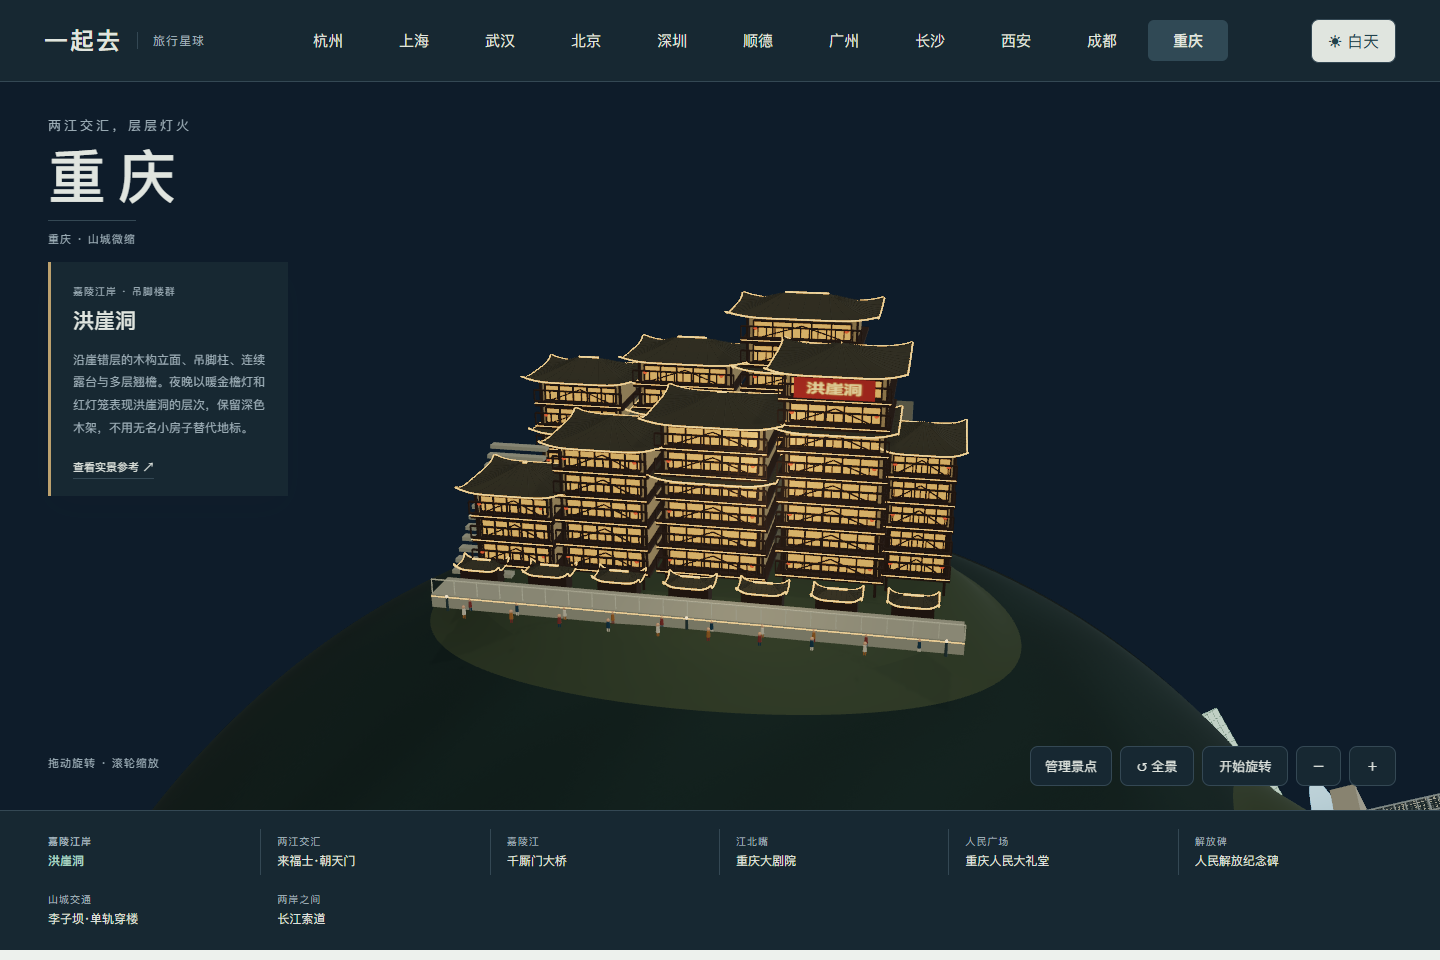
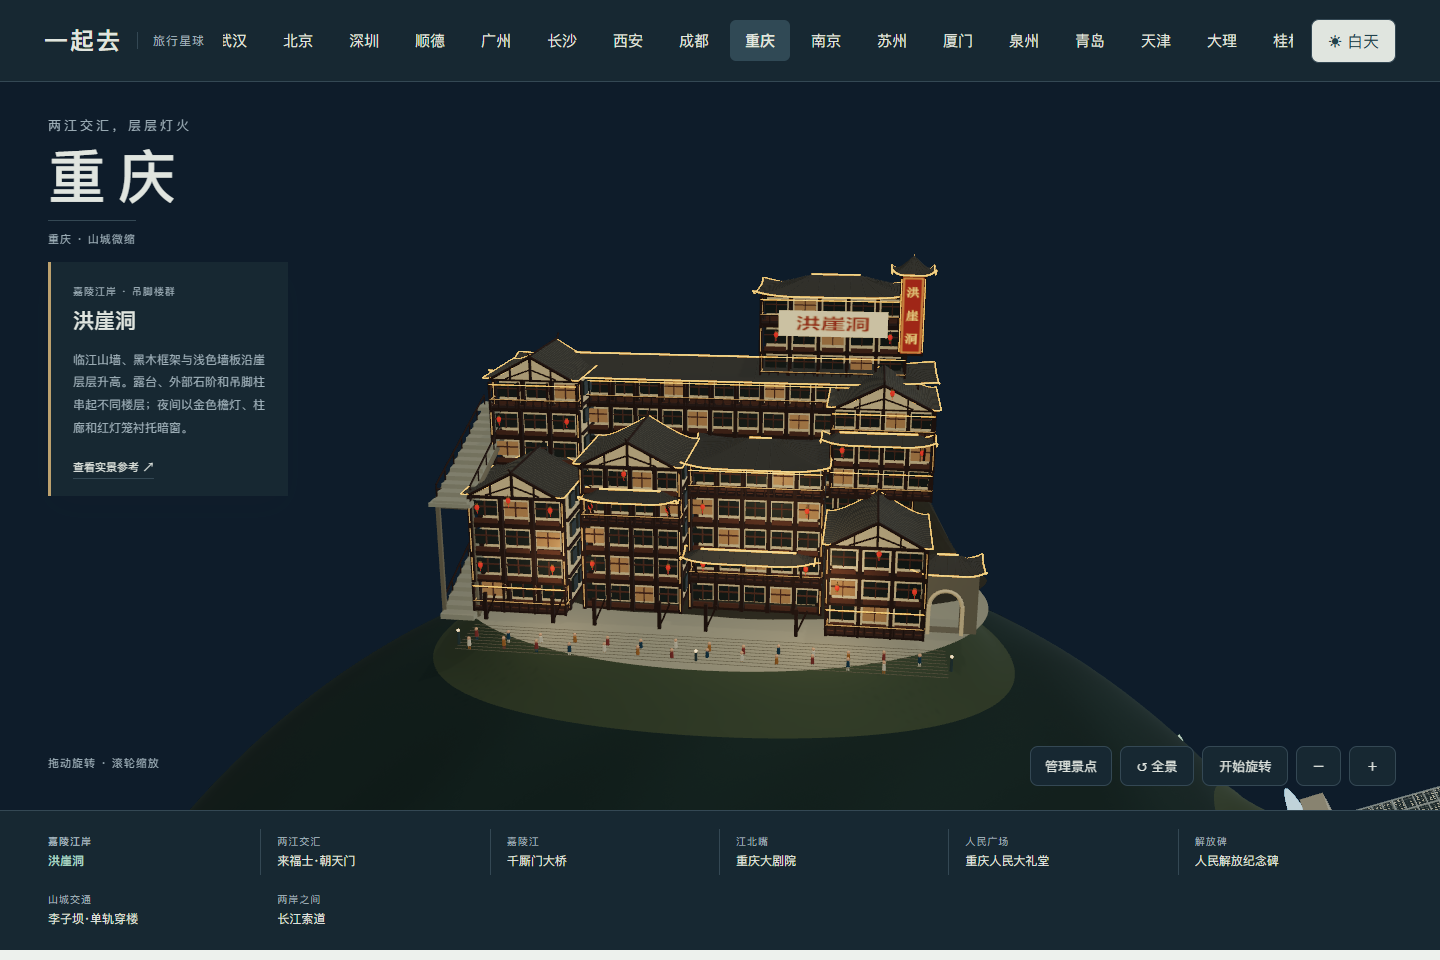
Refine Hongya riverfront architecture and layered night lighting

diff --git a/web/chongqing-hongya.js b/web/chongqing-hongya.js
@@ -1,0 +1,142 @@
+import * as THREE from 'three';
+import {site,disc,hip,glow,sign,finish,skin} from './chongqing-kit.js';
+import {archWall} from './shunde-kit.js';
+
+// A compressed riverfront elevation, based on front-day and street-night photographs.
+// Timber frames, recessed rooms and open galleries have independent geometry.
+export function hongya(k){
+ const g=new THREE.Group();site(k,g,.81,.61);
+ const wood=k.mat('#42302a',.91),frame=k.mat('#674536',.87),plaster=k.mat('#c8c1a4',.94),stone=k.mat('#817b69',.98),paving=k.mat('#a3a290',.95),tile=k.mat('#51504a',.92),tileRib=k.mat('#68665c',.92);
+ const gold=glow(k,'#e4a54d',1.25),soft=glow(k,'#d8aa68',.40),lantern=glow(k,'#b93420',.78,1,.37),dark=k.mat('#2d3735',.53,.12),lit=glow(k,'#97724a',.18),bronze=k.mat('#a87f3e',.65,.22);
+ plaster.userData.night={color:new THREE.Color('#c39a5e'),intensity:.19};lit.userData.night.intensity=.40;
+ plaster.userData.hongyaWall=true;stone.userData.hongyaStone=true;wood.userData.hongyaTimber=true;
+ disc(k,g,.73,.49,.019,paving);
+ // The rock wall climbs behind the buildings, leaving the river-facing galleries open.
+ const rock=k.mat('#8b8876',.98);rock.flatShading=true;rock.vertexColors=true;rock.userData.landscape=true;rock.userData.night={color:new THREE.Color('#534d3d'),intensity:.025};
+ const rockMesh=skin(k,g,(u,v)=>{
+  const a=u*Math.PI*2,edge=1+.022*Math.sin(a*7)+.013*Math.cos(a*13),x=Math.cos(a)*.73*v*edge,z=-.19+Math.sin(a)*.38*v*edge;
+  const rear=THREE.MathUtils.smoothstep(-z,.065,.24),fall=1-THREE.MathUtils.smoothstep(v,.61,1),strata=.018*Math.sin(a*9+v*7)*Math.sin(v*Math.PI);
+  return [x,.022+Math.max(0,(.44*fall+strata)*rear),z];
+ },36,112,rock);
+ const rp=rockMesh.geometry.attributes.position,colors=[];for(let i=0;i<rp.count;i++){const x=rp.getX(i),y=rp.getY(i),z=rp.getZ(i),shade=.91+.07*Math.sin(x*19+z*17)*Math.sin(y*23-z*7);colors.push(shade,shade,shade*.97);}
+ rockMesh.geometry.setAttribute('color',new THREE.Float32BufferAttribute(colors,3));
+ for(let j=0;j<9;j++)k.box(g,1.20,.001,.001,stone,0,.020,.31+j*.018);
+
+ function rail(x,z,w,y,side=false){
+  const parts=new THREE.Group();
+  k.box(parts,w,.004,.005,wood,0,y+.029,0);k.box(parts,w,.003,.005,wood,0,y+.006,0);
+  const n=Math.ceil(w/.025);for(let i=0;i<=n;i++)k.box(parts,.003,.023,.004,wood,(i/n-.5)*w,y+.017,0);
+  for(let i=0;i<n;i++){const xx=((i+.5)/n-.5)*w;k.box(parts,w/n*.63,.0018,.004,frame,xx,y+.015,0);}
+  k.box(parts,w,.0013,.0018,soft,0,y+.031,.003);
+  if(side)parts.rotation.y=Math.PI/2;parts.position.set(x,0,z);g.add(parts);
+ }
+ function lanternAt(x,y,z){
+  k.beam(g,[x,y+.017,z],[x,y+.008,z],.0008,wood,4);
+  const globe=k.mesh(g,new THREE.SphereGeometry(.006,10,8),lantern,x,y,z);globe.scale.y=1.27;
+  for(const s of [-1,1])k.cyl(g,.0035,.0035,.0025,bronze,x,y+s*.008,z,8);
+  k.beam(g,[x,y-.009,z],[x,y-.017,z],.0008,lantern,4);
+ }
+ function gable(x,z,w,d,h,y){
+  // Ridge runs back-to-front so the triangular timber gable faces the river.
+  const side=(s,u,v)=>[x+s*w/2*u,y+h*(1-u)**1.25+.010*u**7,z+(v-.5)*d];
+  for(const s of [-1,1]){
+   skin(k,g,(u,v)=>side(s,u,v),14,20,tile);
+   for(let j=0;j<=Math.ceil(d/.014);j++){const zz=j/Math.ceil(d/.014);k.line(g,Array.from({length:9},(_,i)=>side(s,i/8,zz)),.0007,tileRib);}
+   for(const end of [0,1])k.line(g,Array.from({length:14},(_,i)=>side(s,i/13,end)),.0016,gold);
+   k.beam(g,[x+s*w/2,y+.010,z-d/2],[x+s*w/2,y+.010,z+d/2],.0016,gold);
+  }
+  k.beam(g,[x,y+h+.002,z-d/2-.006],[x,y+h+.002,z+d/2+.007],.003,wood);
+  for(const s of [-1,1])k.beam(g,[x,y+h,z+s*d/2],[x,y+h+.014,z+s*(d/2+.019)],.0025,wood);
+  const triangle=new THREE.Shape();triangle.moveTo(-w*.43,0);triangle.lineTo(w*.43,0);triangle.lineTo(0,h*.88);triangle.closePath();
+  const wall=k.mesh(g,new THREE.ShapeGeometry(triangle),plaster,x,y+.007,z+d/2-.005);wall.material.side=THREE.DoubleSide;
+  k.beam(g,[x-w*.43,y+.006,z+d/2-.001],[x,y+h*.88+.007,z+d/2-.001],.004,wood);k.beam(g,[x,y+h*.88+.007,z+d/2-.001],[x+w*.43,y+.006,z+d/2-.001],.004,wood);
+  k.box(g,.006,h*.88,.008,wood,x,y+.007+h*.44,z+d/2);
+  for(const s of [-1,1]){k.box(g,.004,h*.40,.006,wood,x+s*w*.21,y+.008+h*.20,z+d/2);k.beam(g,[x,y+h*.50,z+d/2],[x+s*w*.26,y+.009,z+d/2],.0024,wood);}
+ }
+ function wing({x,z,w,d,floors,bottom=.041,fh=.078,roof='gable',balconies=[],pattern=0}){
+  const h=floors*fh,front=z+d/2,bays=Math.max(3,Math.round(w/.072));
+  // The body is recessed behind the balcony, not a fully illuminated box.
+  k.box(g,w*.95,h,d*.70,plaster,x,bottom+h/2,z-d*.12);
+  for(let floor=0;floor<floors;floor++){
+   const y=bottom+floor*fh,open=balconies.includes(floor),windowZ=front-(open?.052:.022);
+   if(open){k.box(g,w,.007,d,wood,x,y+.004,z);rail(x,front,w,y);for(const s of [-1,1])rail(x+s*w/2,front-.025,.050,y,true);}
+   k.box(g,w,.009,.016,wood,x,y+.004,windowZ+.002);k.box(g,w,.007,.016,wood,x,y+fh-.003,windowZ+.002);
+   for(let j=0;j<bays;j++){
+    const xx=x-w/2+(j+.5)*w/bays,bw=w/bays*.75;
+    // Broad dark upper panes and pale lower panels, with a few subdued lit rooms.
+    const wm=(j+floor+pattern)%4===0?lit:dark;
+    const rear=z-d*.474;
+    k.box(g,bw,fh*.49,.006,dark,xx,y+fh*.61,rear-.002);
+    k.box(g,.003,fh*.50,.008,frame,xx,y+fh*.61,rear-.005);
+    k.box(g,.010,fh,.012,wood,xx-w/bays*.5,y+fh/2,rear);
+    k.box(g,w/bays,.007,.013,wood,xx,y+.004,rear-.003);
+    k.box(g,bw,fh*.49,.004,wm,xx,y+fh*.61,windowZ+.011);
+    k.box(g,bw,fh*.15,.006,frame,xx,y+fh*.18,windowZ+.012);
+    k.box(g,.0025,fh*.50,.008,frame,xx,y+fh*.61,windowZ+.015);
+    k.box(g,bw,.0025,.008,frame,xx,y+fh*.68,windowZ+.015);
+   }
+   for(let j=0;j<=bays;j++){
+    const xx=x-w/2+j*w/bays;k.box(g,.010,fh,.016,wood,xx,y+fh/2,windowZ+.010);
+    if(j===0||j===bays)k.box(g,.0018,fh*.80,.002,soft,xx,y+fh/2,windowZ+.019);
+    if(open){k.box(g,.006,fh,.006,wood,xx,y+fh/2,front);k.beam(g,[xx,y+fh*.60,front],[xx,y+fh*.87,front-.020],.0028,frame);}
+   }
+   if(open)k.box(g,w,.002,.002,gold,x,y+fh-.007,front+.003);
+   if(floor%2===1)for(const s of [-1,1])lanternAt(x+s*w*.39,y+fh*.72,front+.012);
+   // Side walls stay legible when the planet turns.
+   for(const s of [-1,1]){k.box(g,.012,.007,d*.76,wood,x+s*w*.476,y+.004,z-d*.12);for(let j=0;j<3;j++){const zz=z-d*.42+j*d*.25;k.box(g,.013,fh*.49,d*.16,dark,x+s*w*.478,y+fh*.61,zz);}}
+  }
+  for(const s of [-1,1])k.box(g,.011,h,.012,wood,x+s*w*.476,bottom+h/2,z-d*.46);
+  if(roof==='gable')gable(x,z,w*1.10,d*1.13,.070,bottom+h+.004);
+  if(roof==='hip')hip(k,g,w*1.10,d*1.16,.043,bottom+h+.004,tile,gold,x,z);
+  return bottom+h;
+ }
+
+ // A broad rear gallery links the lower wings to the taller right-hand sign pavilion.
+ wing({x:-.04,z:-.205,w:1.12,d:.24,floors:5,bottom:.205,roof:'hip',balconies:[1,4],pattern:2});
+ wing({x:.29,z:-.245,w:.39,d:.25,floors:3,bottom:.589,roof:'hip',balconies:[0,2],pattern:1});
+ wing({x:-.50,z:-.08,w:.24,d:.24,floors:3,bottom:.37,balconies:[2]});
+ // Unequal riverfront gables and setbacks replace the old repeated tower/stall row.
+ wing({x:-.49,z:.14,w:.245,d:.26,floors:4,balconies:[0],pattern:0});
+ wing({x:-.202,z:.10,w:.255,d:.25,floors:5,balconies:[3],pattern:2});
+ wing({x:.115,z:.055,w:.34,d:.27,floors:5,roof:'hip',balconies:[1,4],pattern:1});
+ wing({x:.425,z:.19,w:.24,d:.23,floors:3,balconies:[0],pattern:3});
+ wing({x:.43,z:-.035,w:.26,d:.24,floors:3,bottom:.33,balconies:[0,2],pattern:0});
+
+ // Short upper terrace roofs and exposed knee braces make the change of levels visible.
+ for(const [x,z,w,y]of [[-.20,.228,.25,.353],[.10,.205,.34,.195],[.42,.104,.29,.49]]){
+  hip(k,g,w,.085,.023,y,tile,gold,x,z);for(const s of [-1,1])k.beam(g,[x+s*w*.40,y-.045,z-.010],[x+s*w*.40,y-.005,z+.030],.0035,wood);
+ }
+ // Street entrance has a real arch opening and a recessed dark interior.
+ archWall(k,g,{w:.16,h:.162,d:.035,x:.602,y:.023,z:.19,openings:[{x:0,r:.038,spring:.075}],mat:stone});
+ const archPts=Array.from({length:25},(_,i)=>[.602+Math.cos(Math.PI*i/24)*.040,.098+Math.sin(Math.PI*i/24)*.040,.212]);k.line(g,archPts,.005,plaster);
+ for(const s of [-1,1])k.box(g,.009,.077,.014,plaster,.602+s*.042,.061,.214);
+ hip(k,g,.185,.13,.032,.194,tile,gold,.602,.185);
+ // The elevated timber portico remains visibly open beneath its floor.
+ for(const x of [-.58,-.40,-.29,-.12,.0,.23]){
+  k.box(g,.009,.074,.010,wood,x,.059,.275);k.beam(g,[x,.027,.275],[x+.028,.093,.275],.0027,wood);
+ }
+ // An external switchback stair links the low street to the high galleries.
+ for(let run=0;run<3;run++){
+  const back=run%2===0,base=.022+run*.156,z0=back?.27:-.16;
+  for(let i=0;i<13;i++){const z=z0+(back?-1:1)*i*.033,top=base+(i+1)*.012;k.box(g,.090,.014,.034,paving,-.655,top-.007,z);}
+  const za=z0+(back?-1:1)*.013,zb=z0+(back?-1:1)*.414;
+  for(const side of [-1,1]){const x=-.655+side*.045;k.beam(g,[x,base+.002,za],[x,base+.145,zb],.008,stone);k.box(g,.010,base+.145,.010,stone,x,(base+.145)/2+.012,zb);k.beam(g,[x,base+.045,za],[x,base+.189,zb],.0024,wood);for(let j=0;j<=6;j++)k.box(g,.003,.029,.003,wood,x,base+.028+j*.024,za+(zb-za)*j/6);}
+  k.box(g,.11,.010,.075,paving,-.655,base+.157,zb);
+ }
+ // The tall corner marker and large white sign are recognisable in both reference views.
+ const tx=.495,tz=-.071,ty=.688;
+ k.box(g,.065,.21,.065,wood,tx,ty+.105,tz);hip(k,g,.11,.11,.045,ty+.211,tile,gold,tx,tz);
+ for(const side of [-1,1])k.box(g,.002,.19,.002,gold,tx+side*.030,ty+.105,tz+.034);
+ if(typeof document!=='undefined'){
+  const c=document.createElement('canvas');c.width=128;c.height=512;const ctx=c.getContext('2d');ctx.fillStyle='#8f3625';ctx.fillRect(0,0,128,512);ctx.strokeStyle='#e5c17d';ctx.lineWidth=4;ctx.strokeRect(8,8,112,496);ctx.fillStyle='#f5d79a';ctx.font='bold 78px serif';ctx.textAlign='center';ctx.textBaseline='middle';[...String.fromCodePoint(0x6d2a,0x5d16,0x6d1e)].forEach((s,i)=>ctx.fillText(s,64,100+i*156));
+  const t=new THREE.CanvasTexture(c);t.colorSpace=THREE.SRGBColorSpace;const m=k.mat('#ffffff',.7);m.map=t;m.emissiveMap=t;m.userData.night={color:new THREE.Color('#ffe1a0'),intensity:.65};k.mesh(g,new THREE.PlaneGeometry(.055,.198),m,tx,ty+.105,tz+.034);
+ }
+ sign(k,g,'洪崖洞',.29,.069,.29,.756,-.105,{background:'#d9d0b2',color:'#963f2b'});
+ for(const [x,y,z]of [[-.5,.355,.29],[-.21,.425,.25],[.43,.27,.32],[.45,.62,.11]])lanternAt(x,y,z);
+
+ // Pedestrians gather along the street; no row of invented miniature houses.
+ const visitors=Array.from({length:27},(_,i)=>[-.57+(i%14)*.085,.38+Math.floor(i/14)*.043+(i%3)*.006]);
+ finish(k,g,{lamps:[[-.61,.40],[0,.44],[.61,.39]],visitors});
+ for(const x of [-.38,.32]){const light=new THREE.PointLight('#ffd49c',0,.85,2);light.position.set(x,.19,.34);light.userData.nightIntensity=.018;g.add(light);}
+ return g;
+}

diff --git a/web/chongqing-riverfront.js b/web/chongqing-riverfront.js
@@ -22,24 +22,7 @@ export function raffles(k){
  return finish(k,g,{lamps:[[-.28,.35],[.28,.35],[-.57,.04],[.57,.04]],visitors:[[-.14,.35],[.16,.34],[0,.39]]});
 }
 
-export function hongya(k){
- const g=new THREE.Group(),p=palette(k);site(k,g,.80,.60);const cliff=k.mat('#7a7968',.98),cream=k.mat('#b79e72',.89),tiles=k.mat('#504d3e',.87),windows=glow(k,'#e4ad60',.42,1,.35);
- // Cliff and terraces explain the multi-level streets, without anonymous buildings.
- for(let j=0;j<5;j++)k.box(g,1.20-j*.06,.065,.33,cliff,0,.052+j*.065,-.18-j*.035);
- const blocks=[[-.48,.15,.22,.22,3],[-.25,.12,.24,.25,5],[.02,.08,.28,.27,6],[.31,.04,.27,.28,8],[.52,.02,.17,.23,5],[-.41,-.20,.25,.21,6],[-.12,-.22,.28,.22,7],[.19,-.24,.32,.23,9]];
- for(const [x,z,w,d,floors]of blocks){const bottom=.065,fh=.065,h=fh*floors;k.box(g,w*.88,h,d*.78,cream,x,bottom+h/2,z);
-  for(let n=0;n<floors;n++){const y=bottom+n*fh;for(const sx of [-1,1]){k.box(g,.006,fh,.006,p.wood,x+sx*w*.45,y+fh/2,z+d*.43);k.beam(g,[x+sx*w*.48,y,z+d*.49],[x,y+.045,z+d*.42],.002,p.wood);}k.box(g,w,.008,d,p.wood,x,y,z);facade(k,g,w*.80,.045,x,y+.033,z+d*.403,p.wood,p.wood,{bays:5,rows:1,lit:windows});balcony(k,g,x,z+d*.54,w*.98,y+.005,p.wood);k.box(g,w*.98,.0015,.002,p.warm,x,y+.008,z+d*.55);
-   if(n%2===0){const ln=glow(k,'#d65c35',.55,n,.35);for(const side of [-1,1])k.ball(g,.0055,ln,x+side*w*.37,y+.041,z+d*.53);}
-  }
-  hip(k,g,w*1.23,d*1.18,.044,bottom+h+.005,tiles,p.warm,x,z);
-  if(floors>=6)hip(k,g,w*1.12,d*.84,.037,bottom+h-.14,tiles,p.warm,x,z+.04);
-  for(const side of [-1,1])k.beam(g,[x+side*w*.42,.022,z+d*.46],[x+side*w*.42,.20,z+d*.46],.004,p.wood);
- }
- for(let j=0;j<13;j++)k.box(g,.16,.010,.025,p.stone,-.57,.04+j*.020,.25-j*.025);
- sign(k,g,'洪崖洞',.19,.050,.31,.56,.20,{background:'#9e392c',color:'#ffe1a0'});quay(k,g,p,1.28,.36);
- for(let i=0;i<7;i++){const x=-.56+i*.18;k.box(g,.10,.04,.045,p.wood,x,.047,.28);hip(k,g,.12,.07,.016,.073,tiles,p.warm,x,.28);}
- return finish(k,g,{lamps:[[-.60,.41],[0,.41],[.60,.41]],visitors:Array.from({length:19},(_,i)=>[-.54+(i%10)*.12,.41+Math.floor(i/10)*.04])});
-}
+export {hongya} from './chongqing-hongya.js';
 
 export function qiansimen(k){
  const g=new THREE.Group(),p=palette(k);site(k,g,.88,.54);disc(k,g,.83,.48,.020,p.water);const white=k.mat('#d1d2c5',.7),red=k.mat('#bf5834',.6,.20),steel=k.mat('#57625f',.61,.34),light=glow(k,'#f2a763',1.1,.5,.42);white.userData.bridgeTower=true;

diff --git a/web/chongqing-landmarks.js b/web/chongqing-landmarks.js
@@ -2,7 +2,7 @@ import {raffles,hongya,qiansimen} from './chongqing-riverfront.js';
 import {greatHall,monument,theatre} from './chongqing-culture.js';
 import {liziba,cableway} from './chongqing-transit.js';
 export const LANDMARKS=[
- {id:'hongya',name:'洪崖洞',area:'嘉陵江岸 · 吊脚楼群',x:-1.05,z:.91,height:.73,distance:3.0,view:[.35,.61,1.8],description:'沿崖错层的木构立面、吊脚柱、连续露台与多层翘檐。夜晚以暖金檐灯和红灯笼表现洪崖洞的层次，保留深色木架，不用无名小房子替代地标。',source:'https://kr.trip.com/moments/detail/chongqing-158-130928534/'},
+ {id:'hongya',name:'洪崖洞',area:'嘉陵江岸 · 吊脚楼群',x:-1.05,z:.91,height:.95,distance:3.1,view:[.24,.50,1.8],description:'临江山墙、黑木框架与浅色墙板沿崖层层升高。露台、外部石阶和吊脚柱串起不同楼层；夜间以金色檐灯、柱廊和红灯笼衬托暗窗。',source:'https://kr.trip.com/moments/detail/chongqing-158-130928534/'},
  {id:'raffles',name:'来福士·朝天门',area:'两江交汇 · 水晶连廊',x:1.08,z:.94,height:1.28,distance:3.15,view:[.30,.64,1.8],description:'八座竖向塔楼，四座前排塔楼承托圆弧玻璃连廊，两座后排高塔形成高低层次。保留银灰格栅与深色玻璃，裙楼向两江交汇处收拢。',source:'https://www.safdiearchitects.com/projects/raffles-city-chongqing'},
  {id:'qiansimen',name:'千厮门大桥',area:'嘉陵江 · 单塔双层桥',x:-1.08,z:-.96,height:.76,distance:3.0,view:[.30,.65,1.8],description:'白色天梭形独塔、单索面斜拉索、金红色钢桁架与上下两层桥面。按设计单位照片区分千厮门独塔和东水门双塔，不混用两座桥。',source:'https://www.cmct.cn/index.php?c=show&id=557'},
  {id:'theatre',name:'重庆大剧院',area:'江北嘴 · 浅绿玻璃',x:1.08,z:-.94,height:.60,distance:2.9,view:[.55,.75,1.8],description:'倾斜的浅绿色玻璃壳体围合两座舞台高塔，立面保留细密分缝和不规则开口。夜晚采用透光的冷绿层次，呈现江畔的折面轮廓。',source:'https://www.gmp.de/en/projects/472/chongqing-grand-theater'},

diff --git a/README.md b/README.md
@@ -1,6 +1,6 @@
 # 一起去 · Travel Planet
 
-用可旋转的 3D 城市星球发现景点，再和朋友一起决定怎么旅行。当前版本 **0.55.0**，支持桌面和手机网页。
+用可旋转的 3D 城市星球发现景点，再和朋友一起决定怎么旅行。当前版本 **0.55.1**，支持桌面和手机网页。
 
 **[上海旅行 · 在线体验](https://43.139.249.151/travel/shanghai-trip.html)** · **[杭州旅行](https://43.139.249.151/travel/)** · **[武汉旅行](https://43.139.249.151/travel/wuhan-trip.html)** · **[武汉纯地图](https://43.139.249.151/travel/wuhan.html)** · **[上海纯地图](https://43.139.249.151/travel/shanghai.html)** · **[北京地图](https://43.139.249.151/travel/beijing.html)** · **[深圳地图](https://43.139.249.151/travel/shenzhen.html)** · **[顺德地图](https://43.139.249.151/travel/shunde.html)** · **[广州地图](https://43.139.249.151/travel/guangzhou.html)** · **[长沙地图](https://43.139.249.151/travel/changsha.html)** · **[西安地图](https://43.139.249.151/travel/xian.html)** · **[成都地图](https://43.139.249.151/travel/chengdu.html)** · **[重庆地图](https://43.139.249.151/travel/chongqing.html)** · **[南京地图](https://43.139.249.151/travel/nanjing.html)** · **[苏州地图](https://43.139.249.151/travel/suzhou.html)** · **[厦门地图](https://43.139.249.151/travel/xiamen.html)** · **[泉州地图](https://43.139.249.151/travel/quanzhou.html)** · **[青岛地图](https://43.139.249.151/travel/qingdao.html)** · **[天津地图](https://43.139.249.151/travel/tianjin.html)** · **[大理地图](https://43.139.249.151/travel/dali.html)** · **[桂林地图](https://43.139.249.151/travel/guilin.html)** · **[三亚地图](https://43.139.249.151/travel/sanya.html)** · **[香港地图](https://43.139.249.151/travel/hongkong.html)** · **[澳门地图](https://43.139.249.151/travel/macau.html)**
 
@@ -35,7 +35,7 @@
 
 成都新增 **8 组具名地标**：武侯祠汉昭烈庙入口、杜甫草堂茅屋故居、安顺廊桥、IFS 爬墙熊猫、熊猫基地熊猫塔、天府美术馆、金沙遗址博物馆陈列馆、东安湖主体育场。区分茅草、木构、铜色外肋、花瓣曲面与玻璃幕墙；日夜保留建筑原色，体育场屋面和商业街有缓慢灯光变化。提供双半球、自由旋转、手机触控与整组管理；成都尚未接入多人旅行。[查看实拍参考](docs/CHENGDU_REFERENCES.md)。
 
-重庆新增 **8 组具名地标**：洪崖洞、来福士朝天门、千厮门大桥、重庆大剧院、人民大礼堂、人民解放纪念碑、李子坝单轨穿楼和长江索道。连续河道表现两江交汇，八组分布于两半球；保留吊脚楼层次、玻璃连廊、桥塔真开口、绿瓦圆殿、穿楼通道与悬挂轿厢。提供日夜、自由旋转、手机触控和整组管理，重庆尚未接入多人旅行。[查看实拍参考](docs/CHONGQING_REFERENCES.md)。
+重庆新增 **8 组具名地标**：洪崖洞、来福士朝天门、千厮门大桥、重庆大剧院、人民大礼堂、人民解放纪念碑、李子坝单轨穿楼和长江索道。连续河道表现两江交汇，八组分布于两半球；洪崖洞包含临江山墙、错层露台、退后的暗窗、吊脚柱、贯通入口和连续崖坡；保留玻璃连廊、桥塔真开口、绿瓦圆殿、穿楼通道与悬挂轿厢。提供日夜、自由旋转、手机触控和整组管理，重庆尚未接入多人旅行。[查看实拍参考](docs/CHONGQING_REFERENCES.md)。
 
 南京新增 **8 组具名地标**：中山陵、夫子庙秦淮河、中华门瓮城、南京博物院、鸡鸣寺药师佛塔、大报恩寺遗址新塔、紫峰大厦和南京眼。保留连续石阶、贯通藏兵洞、古建木格门窗、玻璃保护塔与倾斜双桥环；双半球布局，支持日夜、近看、手机触控和整组管理。南京当前未接入多人旅行。[查看实拍参考](docs/NANJING_REFERENCES.md)。
 

diff --git a/docs/CHONGQING_REFERENCES.md b/docs/CHONGQING_REFERENCES.md
@@ -4,7 +4,7 @@
 
 | 地标 | 已核看的形态 | 参考 |
 | --- | --- | --- |
-| 洪崖洞 | 依崖错层的吊脚楼、木格立面、连续露台、深色屋面、暖金檐灯与红灯笼 | [游客夜景实拍](https://kr.trip.com/moments/detail/chongqing-158-130928534/) |
+| 洪崖洞 | 临江三角山墙、黑木框架与浅色墙板、错层开放露台、右侧高阁、暗窗、金色檐灯与红灯笼 | [正面日景报道](https://www.thepaper.cn/newsDetail_forward_28863739)、[游客夜景实拍](https://kr.trip.com/moments/detail/chongqing-158-130928534/) |
 | 来福士·朝天门 | 八座塔楼、前排四塔上的圆弧玻璃连廊、两座后排高塔、银灰竖框与深色玻璃、收拢的裙楼 | [Safdie Architects 项目资料](https://www.safdiearchitects.com/projects/raffles-city-chongqing)、[The Crystal 实拍](https://int.design/fr/projets/the-crystal-the-conservatory-raffles-city-chongqing/) |
 | 千厮门大桥 | 白色天梭形独塔、塔身中部开口、红色单索面斜拉索、上下两层桥面与钢桁架 | [设计单位资料与照片](https://www.cmct.cn/index.php?c=show&id=557) |
 | 重庆大剧院 | 石材平台、倾斜浅绿玻璃壳体、两座较高舞台体量、细密玻璃分缝与折面轮廓 | [gmp 建筑师资料与摄影](https://www.gmp.de/en/projects/472/chongqing-grand-theater) |
@@ -24,3 +24,12 @@
 ![洪崖洞夜景模型](images/chongqing-hongya-night.png)
 
 ![人民大礼堂模型](images/chongqing-great-hall.png)
+
+
+## 洪崖洞细化（0.55.1）
+
+对照正面日景与沿街夜照，替换重复楼块和沿街小房子：临江屋顶增加前向山墙，后方保留连续退台廊道；木框、浅墙板、深窗、吊脚支撑、转折楼梯和入口券洞分别建模。金色灯光落在檐边、立柱和廊下，减少整面窗墙发亮。模型背面的崖坡是适应球面的连续地形，不声称还原背街道路及精确楼层。
+
+![洪崖洞日景模型](images/chongqing-hongya-day.png)
+
+![洪崖洞侧向模型](images/chongqing-hongya-oblique.png)

diff --git a/docs/TESTING.md b/docs/TESTING.md
@@ -202,3 +202,7 @@ python tools/travel-flow-check.py
 ## 0.55.0 澳门地图
 
 320 项完整测试（60.8 秒）、325 项 JavaScript 语法检查通过；末次新葡京莲瓣前后关系修正后 3 项专项再次通过。专项覆盖双半球与海岸净空、落地与间距、有限顶点法线、大三巴三入口与摩珀斯三孔洞射线、夜间保色、减少动态和整组资源释放。完整浏览器于 2026-11-04 06:18—06:19 完成十组日夜、动态像素、整组增删保存恢复、实际触屏拖动双指缩放、键盘自由旋转、320—1440 布局、WebGL 恢复和既有城市导航；异常与业务写入 0。最终截图06:19:48—06:19:56已核看，手机为浏览器模拟。原三城旅行与数据保持。
+
+## 0.55.1 洪崖洞精修
+
+321 项完整测试（60.8 秒）与326 项 JavaScript 语法检查通过；最后的崖坡修改后4 项重庆专项再次通过。新增射线检查确保露台前方有真实退让深度、退后的房间仍存在、临街入口可穿透且券洞侧壁为实体。完整浏览器于2026-11-04 06:34—06:35完成八组日夜、动态、整组增删保存恢复、触摸拖动与缩放、键盘、320—1440布局、WebGL恢复及城市导航。最后06:36补验洪崖洞日夜、侧后方和390/320；页面错误及业务写入0。手机为浏览器模拟，原三城旅行保持。
